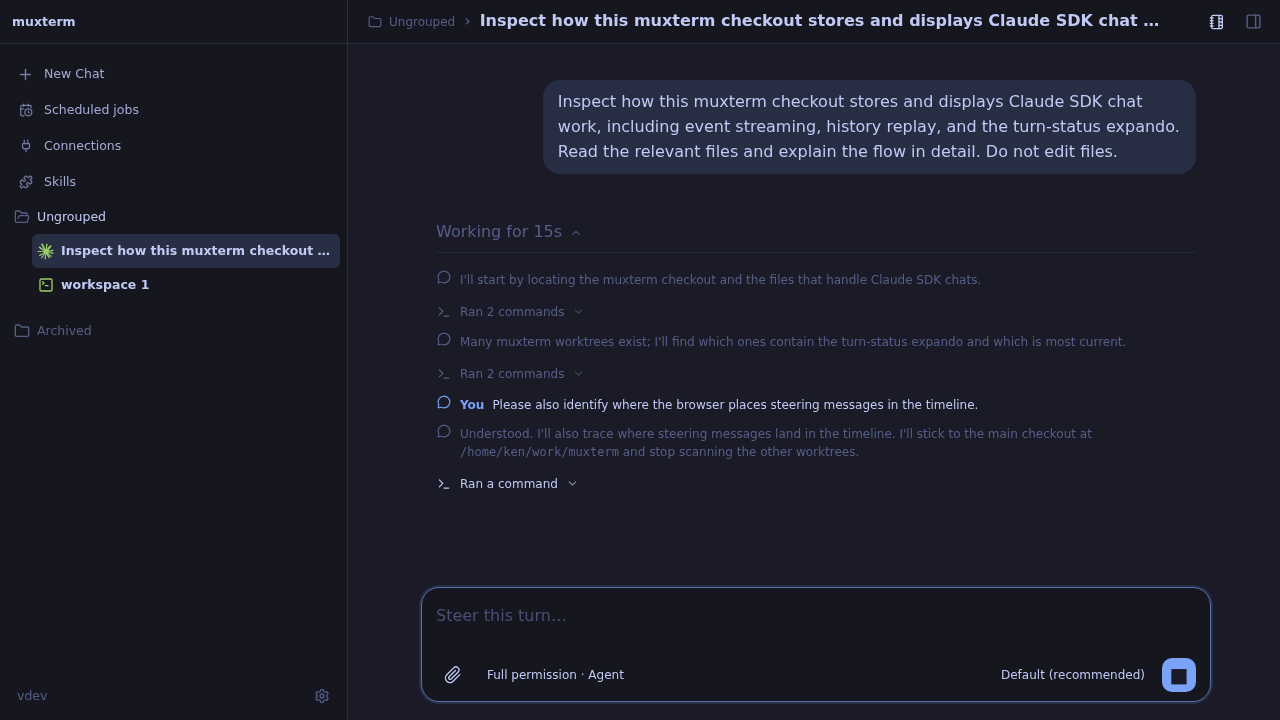
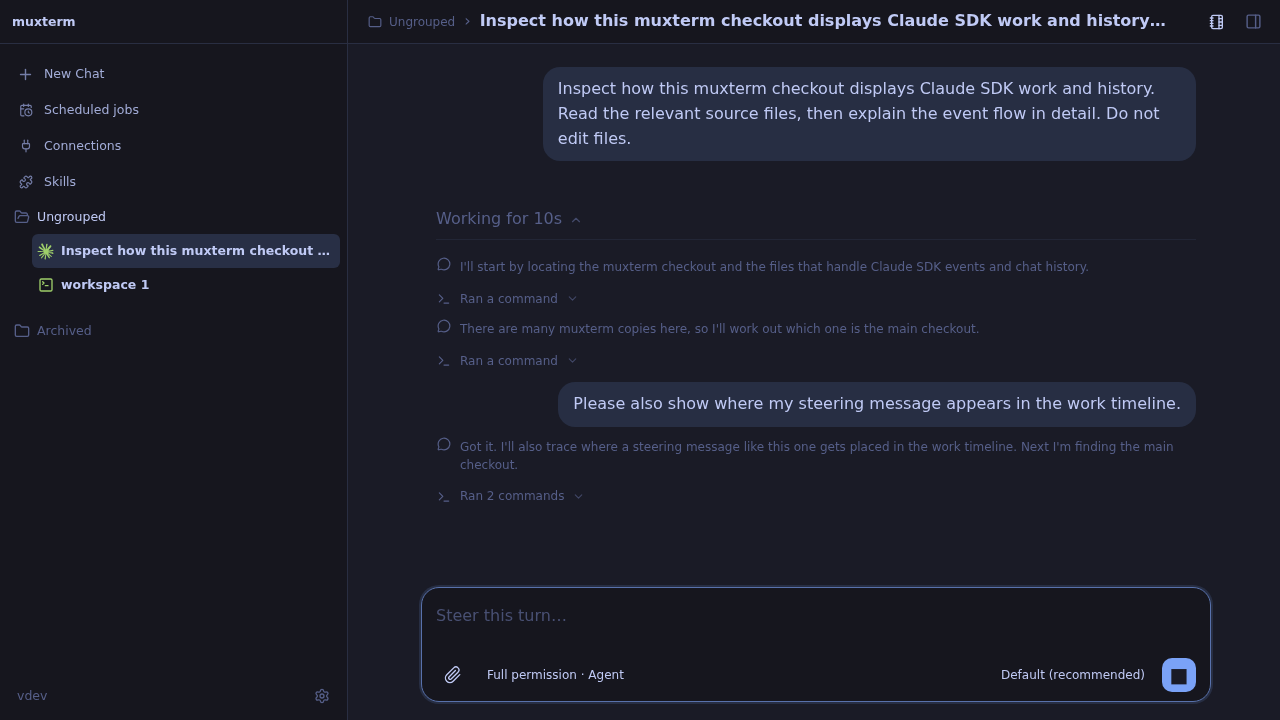
Reuse user bubble for turn interjections

diff --git a/web/src/components/mux-sdk-chat.ts b/web/src/components/mux-sdk-chat.ts
@@ -273,9 +273,7 @@ export class MuxSDKChat extends LitElement {
     .work-disclosure > summary svg { opacity:.7; transition:transform .15s ease; }
     .work-disclosure[open] > summary svg { transform:rotate(180deg); }
     .work-items { padding:12px 0 2px; }
-    .interjection-entry { display:flex; align-items:baseline; gap:8px; margin:8px 0 10px; color:var(--chrome-text-bright,#d9def0); font-size:12px; line-height:1.5; }
-    .interjection-entry .work-icon, .interjection-entry strong { color:var(--chrome-accent,#9bb8f7); }
-    .interjection-entry .interjection-text { min-width:0; white-space:pre-wrap; overflow-wrap:anywhere; }
+    .interjection-entry { margin:8px 0 10px; }
     .work-item { margin-bottom:5px; }
     .work-passage { margin:0 0 10px; color:var(--chrome-text-dim,#9aa3b8); font-size:var(--mux-font-size,16px); line-height:1.55; overflow-wrap:anywhere; }
     .work-passage > :first-child { margin-top:0; }
@@ -1812,7 +1810,7 @@ export class MuxSDKChat extends LitElement {
     return html`<div class="progress-entry" aria-label="Progress update"><span class="work-icon">${icon(MessageCircle, { size: 14 })}</span><div class="progress-text">${this.markdown(block, block.key)}</div></div>`;
   }
   private interjectionEntry(block: Block) {
-    return html`<div class="interjection-entry" aria-label="Your interjection"><span class="work-icon">${icon(MessageCircle, { size: 14 })}</span><strong>You</strong><span class="interjection-text">${block.text}</span></div>`;
+    return html`<div class="interjection-entry user" aria-label="Your interjection">${this.userBubble(block)}</div>`;
   }
   private toolEntry(block: Block, key: string) {
     const kind = this.toolKind(block);
